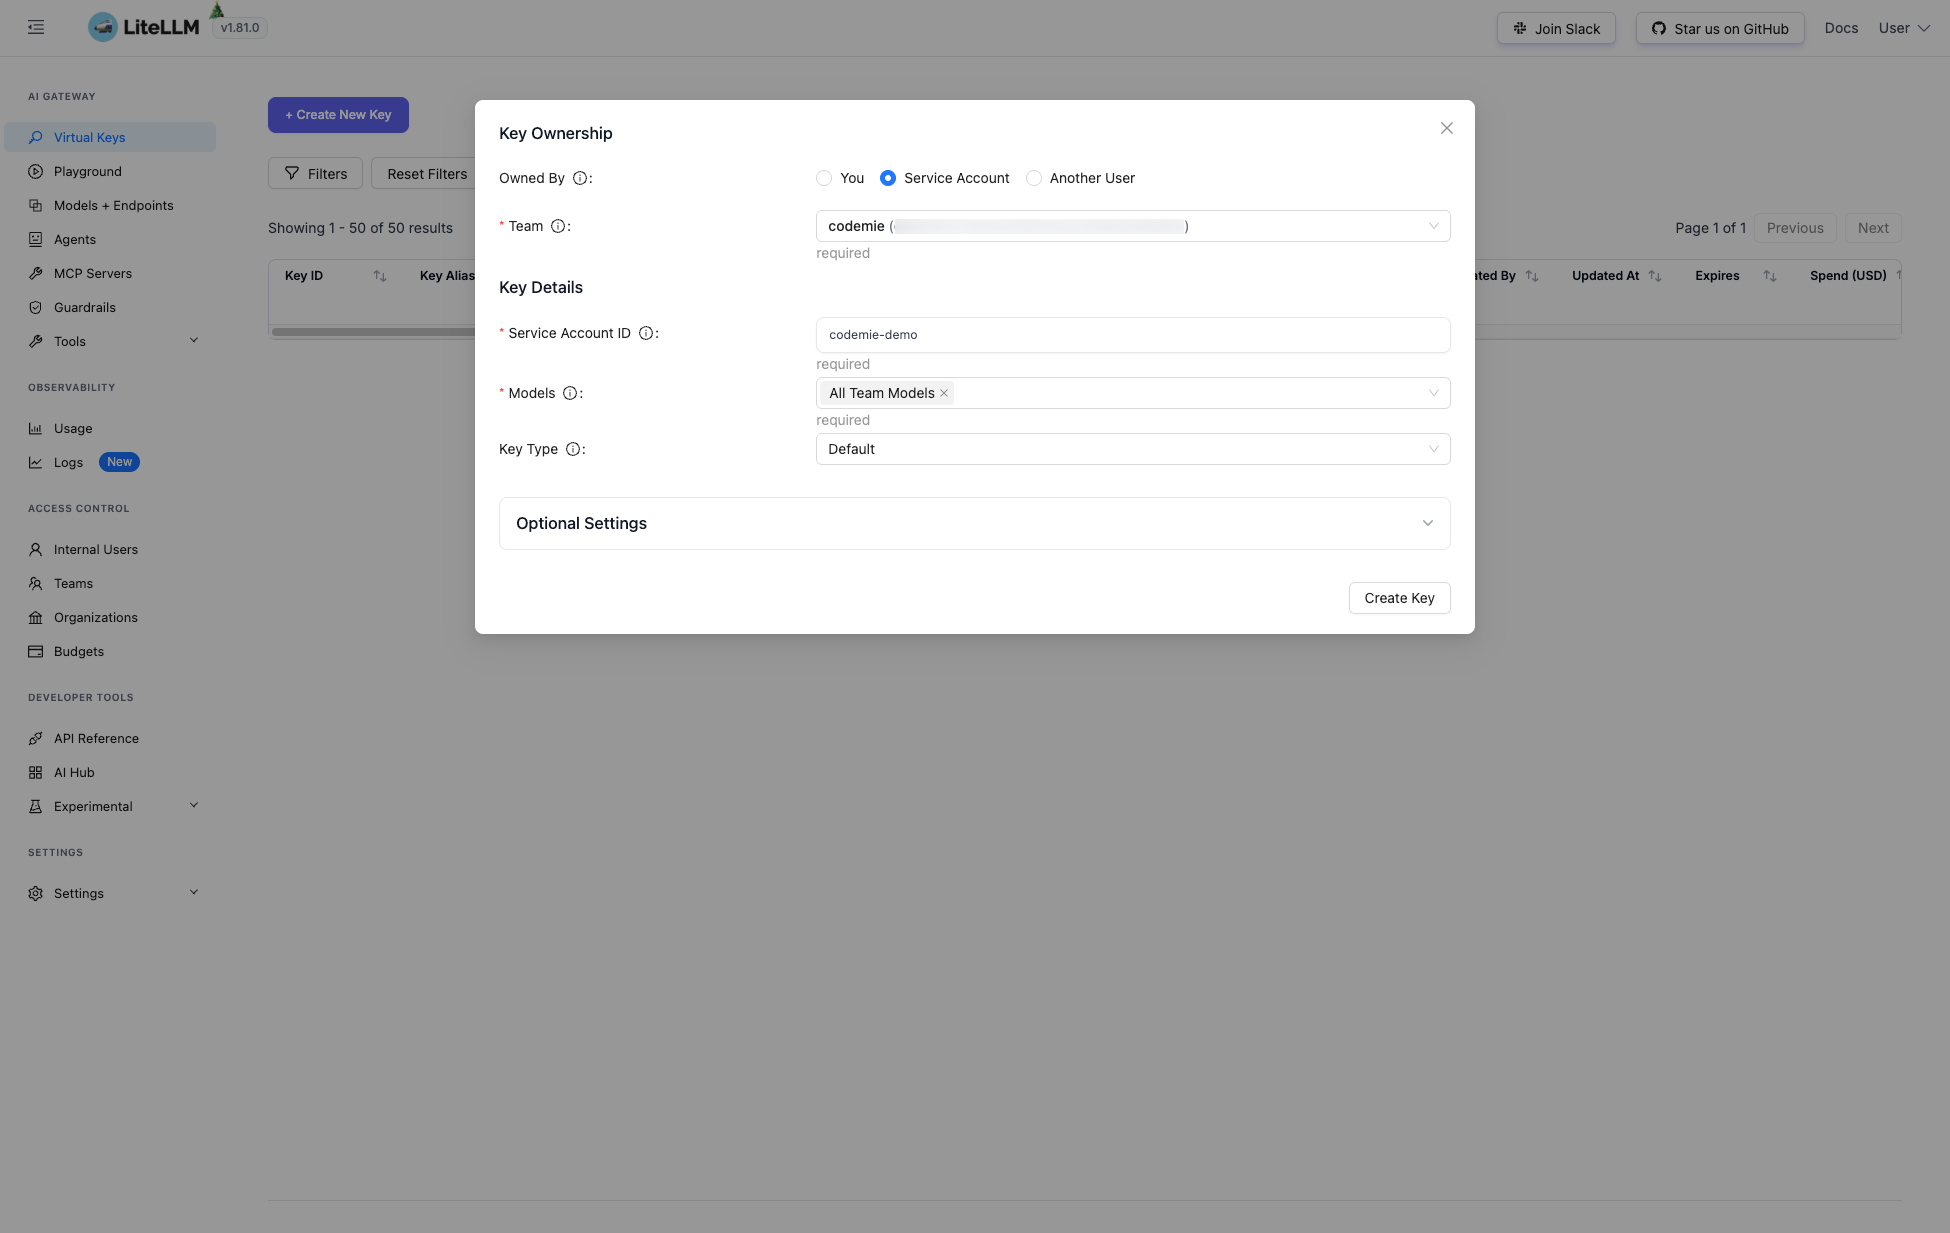
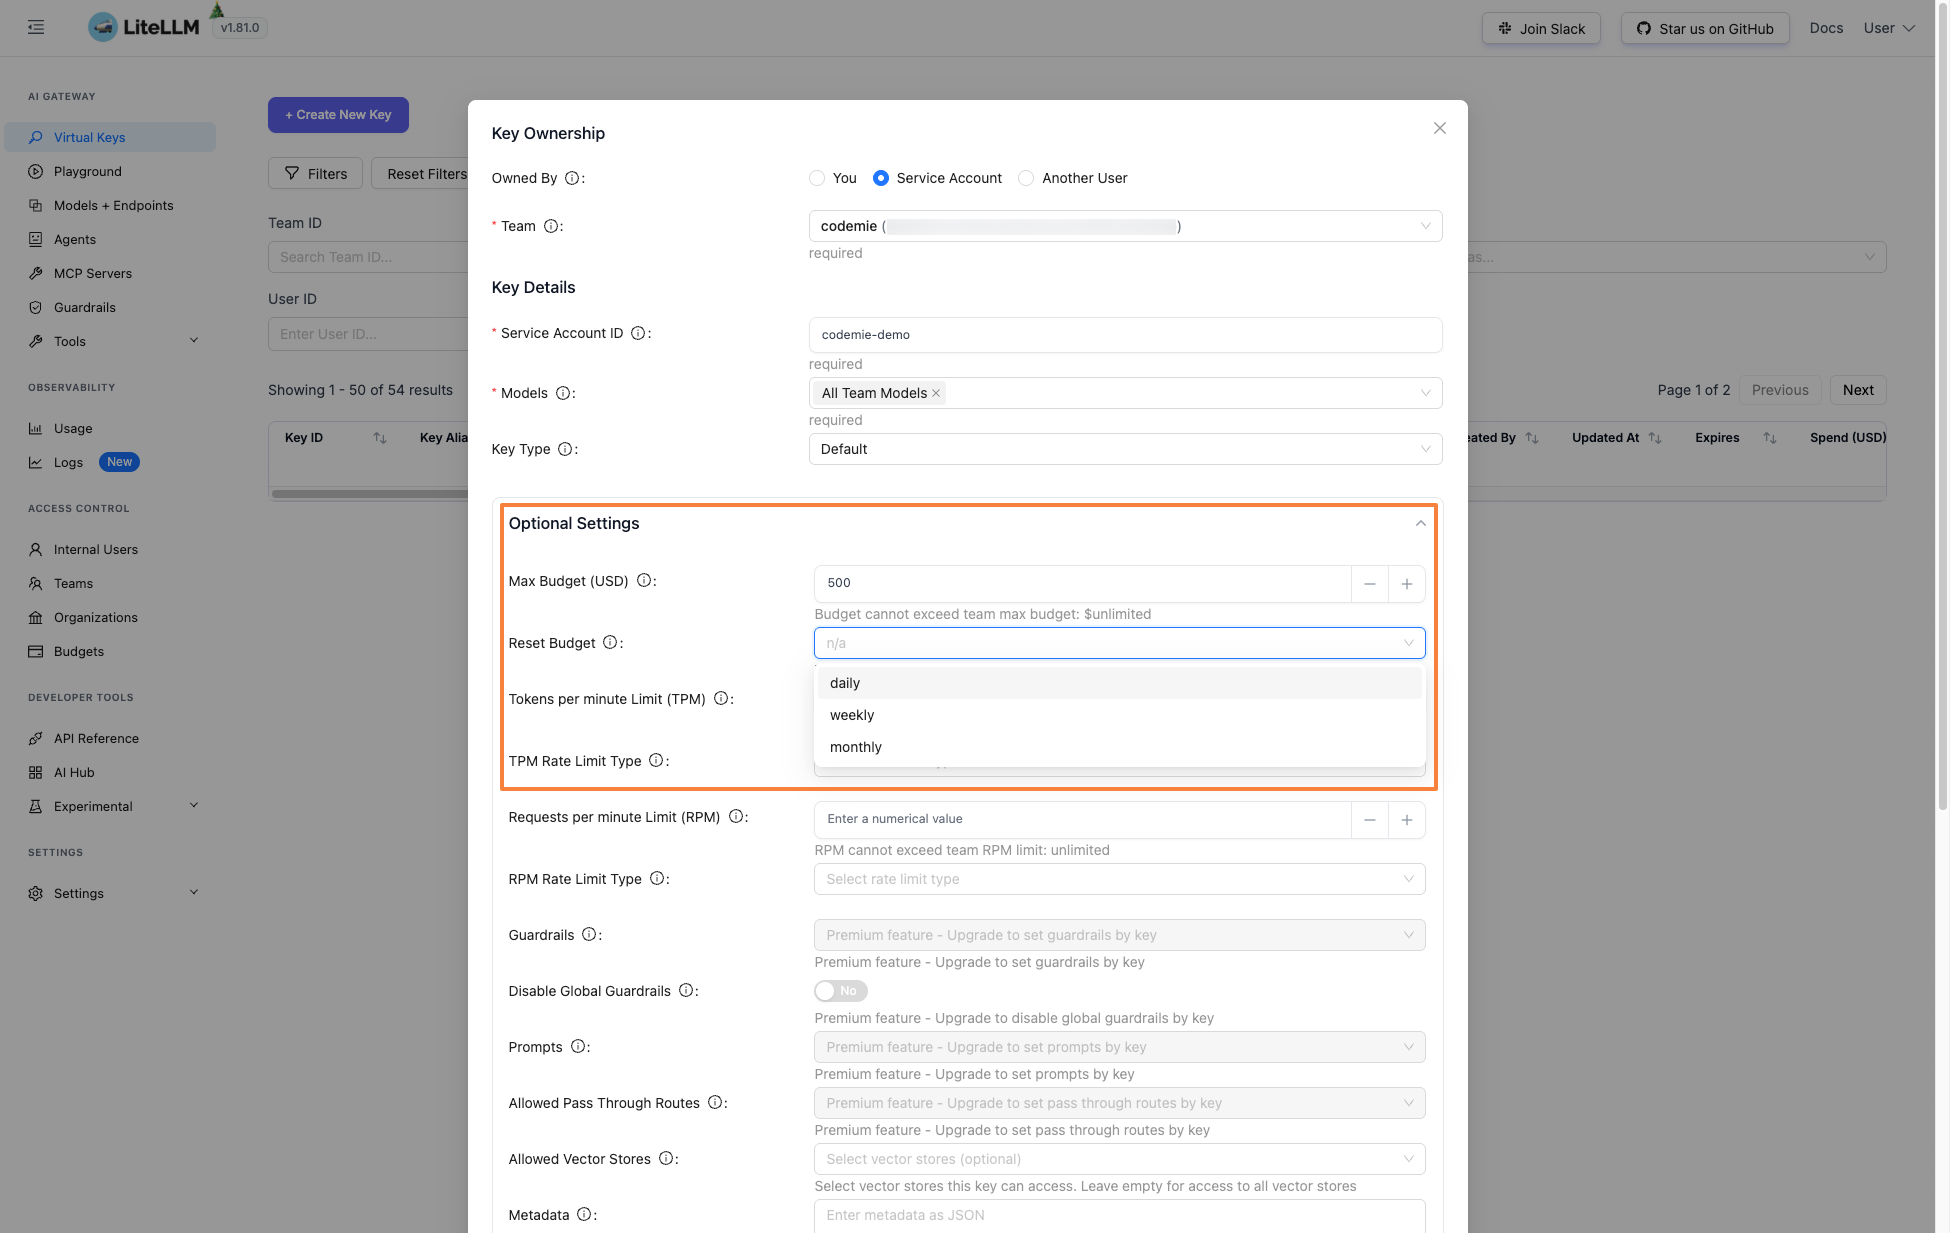
docs: align integration guide with budget notifications

diff --git a/docs/user-guide/tools_integrations/tools/litellm.md b/docs/user-guide/tools_integrations/tools/litellm.md
@@ -25,6 +25,13 @@ LiteLLM is a proxy that allows AI/Run CodeMie to connect to various LLM provider
 - **Models**: Select models the key should have access to (e.g., "All Team Models")
 - **Key Type**: Default
 
+Optionally, in the **Optional Settings** section, you can configure budget controls:
+
+- **Max Budget (USD)**: Set a maximum spending limit for the key.
+- **Reset Budget**: Choose a reset period (e.g., daily, weekly, monthly) to automatically renew the budget.
+
+You can adjust these values at any time to increase or decrease the budget as needed.
+
 ![LiteLLM Create New Key form](./images/litellm-create-key.png)
 
 1.3. Copy the generated Virtual Key from the dialog and store it securely:
@@ -53,7 +60,17 @@ You will not be able to view this key again. Make sure to copy and save it befor
 If you create this integration under the **Project** tab, the key will be available to the entire project by default, meaning all project members can use it.
 :::
 
-## 3. Verify Usage
+## 3. Budget Limit Notification
+
+If the budget configured for your Virtual Key or team has been exceeded, AI/Run CodeMie will display a notification indicating that the budget limit has been reached:
+
+![Budget exceeded notification](./images/litellm-budget-exceeded.png)
+
+:::tip
+If your organization or team has its own support channel, the contact link in the notification can be customized. Administrators can override the default support URL in the [API Configuration](../../../admin/configuration/codemie/api-configuration#support--help) settings.
+:::
+
+## 4. Verify Usage
 
 After using the integration, you can open the LiteLLM Dashboard to verify that requests have been made and monitor usage, including spend and rate limits:
 
